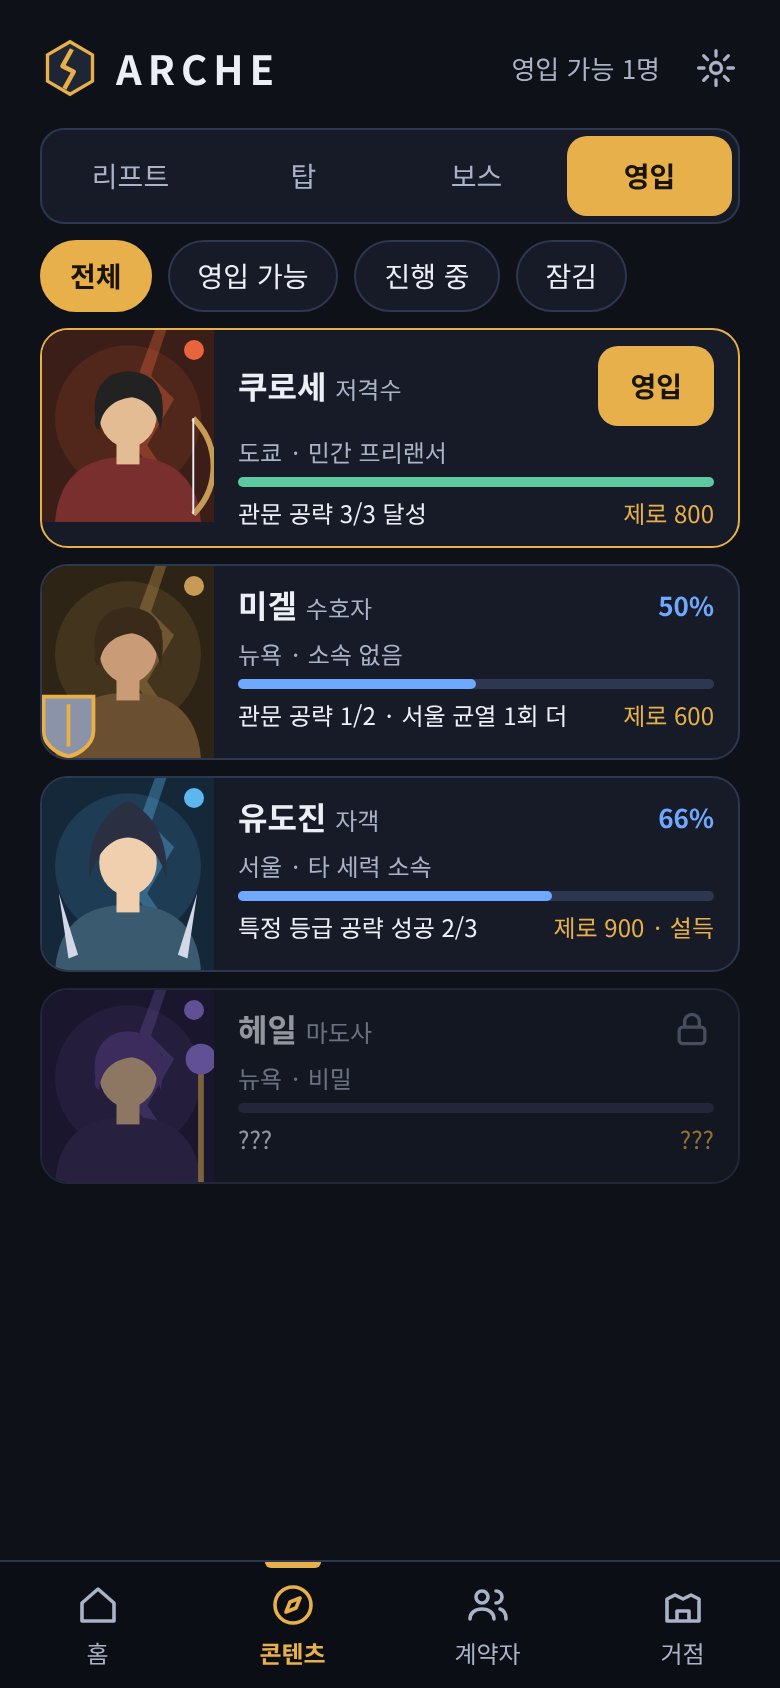
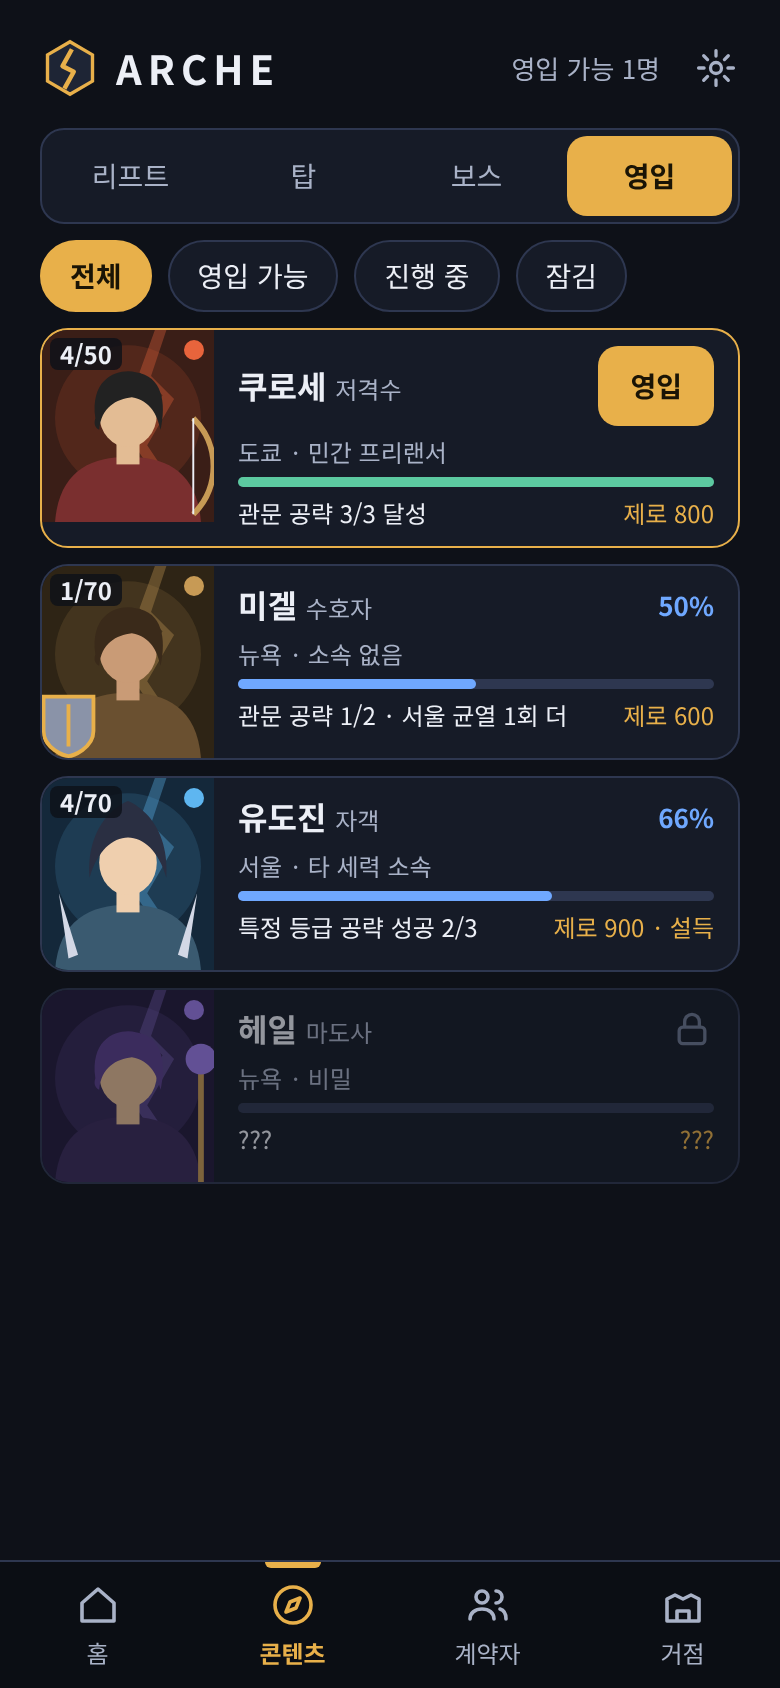
문서: 지시서 017c 영입 카드 레벨 표시, 영입 시안 갱신 (#56)
Claude-Session: https://claude.ai/code/session_01FY7xR1vSvN5qswAUnr8y5E

Changed region(s): [[0.0615, 0.1848, 0.1538, 0.2464], [0.0615, 0.4621, 0.1538, 0.4929], [0.0615, 0.3389, 0.1538, 0.3697]]

diff --git a/docs/design/ui/Recruit.html b/docs/design/ui/Recruit.html
@@ -10,9 +10,9 @@
 <div style="display:flex;gap:8px;overflow:hidden"><span style="flex:none;height:36px;box-sizing:border-box;border-radius:999px;padding:0 14px;display:flex;align-items:center;font-size:14px;background:#E8B04A;color:#1A1405;font-weight:700;border:1px solid #E8B04A">전체</span><span style="flex:none;height:36px;box-sizing:border-box;border-radius:999px;padding:0 14px;display:flex;align-items:center;font-size:14px;background:#161B27;color:#ECEFF6;border:1px solid #2E3750">영입 가능</span><span style="flex:none;height:36px;box-sizing:border-box;border-radius:999px;padding:0 14px;display:flex;align-items:center;font-size:14px;background:#161B27;color:#ECEFF6;border:1px solid #2E3750">진행 중</span><span style="flex:none;height:36px;box-sizing:border-box;border-radius:999px;padding:0 14px;display:flex;align-items:center;font-size:14px;background:#161B27;color:#ECEFF6;border:1px solid #2E3750">잠김</span></div>
 </div>
 <div style="padding:8px 20px 0;display:flex;flex-direction:column;gap:8px">
-<div style="box-sizing:border-box;background:#161B27;border:1px solid #E8B04A;border-radius:14px;overflow:hidden;display:flex;"><div style="width:86px;height:96px;position:relative;flex:none"><svg viewBox="0 0 100 100" width="100%" height="100%" preserveAspectRatio="xMidYMid slice" aria-hidden="true"><rect width="100" height="100" fill="#3A1E17"/><circle cx="50" cy="46" r="38" fill="#E8643C" opacity="0.14"/><polygon points="64,0 56,22 68,34 52,58 60,70 48,100 54,100 68,72 60,60 74,36 62,24 70,0" fill="#E8643C" opacity="0.35"/><path d="M12 100 C14 74 30 66 50 66 C70 66 86 74 88 100 Z" fill="#7A2F2F"/><rect x="44" y="56" width="12" height="14" fill="#E3BC94"/><ellipse cx="50" cy="44" rx="15" ry="17" fill="#E3BC94"/><path d="M33 46 C30 24 46 20 54 22 C68 24 70 38 67 52 C65 44 62 37 52 35 C44 36 36 40 35 52 C33 51 32 49 33 46 Z" fill="#222"/><path d="M84 46 C98 60 98 82 84 96" stroke="#C79A55" stroke-width="3" fill="none"/><path d="M84 46 L84 96" stroke="#ECEFF6" stroke-width="1"/></svg><span style="position:absolute;right:5px;top:5px;width:10px;height:10px;border-radius:50%;background:#E8643C"></span></div><div style="flex:1;padding:8px 12px;display:flex;flex-direction:column;gap:4px;min-width:0"><div style="display:flex;justify-content:space-between;align-items:center"><span style="font-size:16px;font-weight:700">쿠로세 <span style="font-size:12px;font-weight:400;color:#A9B2C7">저격수</span></span><span style="height:40px;padding:0 16px;box-sizing:border-box;border-radius:10px;background:#E8B04A;color:#1A1405;font-weight:700;font-size:14px;display:flex;align-items:center;justify-content:center">영입</span></div><span style="font-size:12px;color:#A9B2C7">도쿄 · 민간 프리랜서</span><div style="height:5px;border-radius:3px;background:#2E3750"><div style="width:100%;height:5px;border-radius:3px;background:#5CC9A0"></div></div><div style="display:flex;justify-content:space-between;font-size:12px"><span style="color:#ECEFF6">관문 공략 3/3 달성</span><span style="color:#E8B04A">제로 800</span></div></div></div>
-<div style="box-sizing:border-box;background:#161B27;border:1px solid #2E3750;border-radius:14px;overflow:hidden;display:flex;"><div style="width:86px;height:96px;position:relative;flex:none"><svg viewBox="0 0 100 100" width="100%" height="100%" preserveAspectRatio="xMidYMid slice" aria-hidden="true"><rect width="100" height="100" fill="#2E2415"/><circle cx="50" cy="46" r="38" fill="#C79A55" opacity="0.14"/><polygon points="64,0 56,22 68,34 52,58 60,70 48,100 54,100 68,72 60,60 74,36 62,24 70,0" fill="#C79A55" opacity="0.35"/><path d="M12 100 C14 74 30 66 50 66 C70 66 86 74 88 100 Z" fill="#6A5030"/><rect x="44" y="56" width="12" height="14" fill="#C99B76"/><ellipse cx="50" cy="44" rx="15" ry="17" fill="#C99B76"/><path d="M33 46 C30 24 46 20 54 22 C68 24 70 38 67 52 C65 44 62 37 52 35 C44 36 36 40 35 52 C33 51 32 49 33 46 Z" fill="#3A2A1A"/><path d="M6 68 L32 68 L32 86 C32 95 21 99 19 99 C17 99 6 95 6 86 Z" fill="#8A93A8" stroke="#E8B04A" stroke-width="2"/><path d="M19 72 L19 94" stroke="#E8B04A" stroke-width="2"/></svg><span style="position:absolute;right:5px;top:5px;width:10px;height:10px;border-radius:50%;background:#C79A55"></span></div><div style="flex:1;padding:8px 12px;display:flex;flex-direction:column;gap:4px;min-width:0"><div style="display:flex;justify-content:space-between;align-items:center"><span style="font-size:16px;font-weight:700">미겔 <span style="font-size:12px;font-weight:400;color:#A9B2C7">수호자</span></span><span style="font-size:13px;font-weight:700;color:#6FA8FF">50%</span></div><span style="font-size:12px;color:#A9B2C7">뉴욕 · 소속 없음</span><div style="height:5px;border-radius:3px;background:#2E3750"><div style="width:50%;height:5px;border-radius:3px;background:#6FA8FF"></div></div><div style="display:flex;justify-content:space-between;font-size:12px"><span style="color:#ECEFF6">관문 공략 1/2 · 서울 균열 1회 더</span><span style="color:#E8B04A">제로 600</span></div></div></div>
-<div style="box-sizing:border-box;background:#161B27;border:1px solid #2E3750;border-radius:14px;overflow:hidden;display:flex;"><div style="width:86px;height:96px;position:relative;flex:none"><svg viewBox="0 0 100 100" width="100%" height="100%" preserveAspectRatio="xMidYMid slice" aria-hidden="true"><rect width="100" height="100" fill="#14283A"/><circle cx="50" cy="46" r="38" fill="#5EB6F0" opacity="0.14"/><polygon points="64,0 56,22 68,34 52,58 60,70 48,100 54,100 68,72 60,60 74,36 62,24 70,0" fill="#5EB6F0" opacity="0.35"/><path d="M12 100 C14 74 30 66 50 66 C70 66 86 74 88 100 Z" fill="#3A5A70"/><rect x="44" y="56" width="12" height="14" fill="#EFCFAE"/><ellipse cx="50" cy="44" rx="15" ry="17" fill="#EFCFAE"/><path d="M30 52 C28 20 50 12 50 12 C50 12 72 20 70 52 C66 38 58 31 50 31 C42 31 34 38 30 52 Z" fill="#2A2F42"/><path d="M14 60 L24 92 L19 94 Z" fill="#D3D8E6"/><path d="M86 60 L76 92 L81 94 Z" fill="#D3D8E6"/></svg><span style="position:absolute;right:5px;top:5px;width:10px;height:10px;border-radius:50%;background:#5EB6F0"></span></div><div style="flex:1;padding:8px 12px;display:flex;flex-direction:column;gap:4px;min-width:0"><div style="display:flex;justify-content:space-between;align-items:center"><span style="font-size:16px;font-weight:700">유도진 <span style="font-size:12px;font-weight:400;color:#A9B2C7">자객</span></span><span style="font-size:13px;font-weight:700;color:#6FA8FF">66%</span></div><span style="font-size:12px;color:#A9B2C7">서울 · 타 세력 소속</span><div style="height:5px;border-radius:3px;background:#2E3750"><div style="width:66%;height:5px;border-radius:3px;background:#6FA8FF"></div></div><div style="display:flex;justify-content:space-between;font-size:12px"><span style="color:#ECEFF6">특정 등급 공략 성공 2/3</span><span style="color:#E8B04A">제로 900 · 설득</span></div></div></div>
+<div style="box-sizing:border-box;background:#161B27;border:1px solid #E8B04A;border-radius:14px;overflow:hidden;display:flex;"><div style="width:86px;height:96px;position:relative;flex:none"><svg viewBox="0 0 100 100" width="100%" height="100%" preserveAspectRatio="xMidYMid slice" aria-hidden="true"><rect width="100" height="100" fill="#3A1E17"/><circle cx="50" cy="46" r="38" fill="#E8643C" opacity="0.14"/><polygon points="64,0 56,22 68,34 52,58 60,70 48,100 54,100 68,72 60,60 74,36 62,24 70,0" fill="#E8643C" opacity="0.35"/><path d="M12 100 C14 74 30 66 50 66 C70 66 86 74 88 100 Z" fill="#7A2F2F"/><rect x="44" y="56" width="12" height="14" fill="#E3BC94"/><ellipse cx="50" cy="44" rx="15" ry="17" fill="#E3BC94"/><path d="M33 46 C30 24 46 20 54 22 C68 24 70 38 67 52 C65 44 62 37 52 35 C44 36 36 40 35 52 C33 51 32 49 33 46 Z" fill="#222"/><path d="M84 46 C98 60 98 82 84 96" stroke="#C79A55" stroke-width="3" fill="none"/><path d="M84 46 L84 96" stroke="#ECEFF6" stroke-width="1"/></svg><span data-ui="recruit.level" style="position:absolute;left:4px;top:4px;font-size:12px;font-weight:700;line-height:16px;background:rgba(14,17,24,0.82);border-radius:4px;padding:0 5px;z-index:2">4/50</span><span style="position:absolute;right:5px;top:5px;width:10px;height:10px;border-radius:50%;background:#E8643C"></span></div><div style="flex:1;padding:8px 12px;display:flex;flex-direction:column;gap:4px;min-width:0"><div style="display:flex;justify-content:space-between;align-items:center"><span style="font-size:16px;font-weight:700">쿠로세 <span style="font-size:12px;font-weight:400;color:#A9B2C7">저격수</span></span><span style="height:40px;padding:0 16px;box-sizing:border-box;border-radius:10px;background:#E8B04A;color:#1A1405;font-weight:700;font-size:14px;display:flex;align-items:center;justify-content:center">영입</span></div><span style="font-size:12px;color:#A9B2C7">도쿄 · 민간 프리랜서</span><div style="height:5px;border-radius:3px;background:#2E3750"><div style="width:100%;height:5px;border-radius:3px;background:#5CC9A0"></div></div><div style="display:flex;justify-content:space-between;font-size:12px"><span style="color:#ECEFF6">관문 공략 3/3 달성</span><span style="color:#E8B04A">제로 800</span></div></div></div>
+<div style="box-sizing:border-box;background:#161B27;border:1px solid #2E3750;border-radius:14px;overflow:hidden;display:flex;"><div style="width:86px;height:96px;position:relative;flex:none"><svg viewBox="0 0 100 100" width="100%" height="100%" preserveAspectRatio="xMidYMid slice" aria-hidden="true"><rect width="100" height="100" fill="#2E2415"/><circle cx="50" cy="46" r="38" fill="#C79A55" opacity="0.14"/><polygon points="64,0 56,22 68,34 52,58 60,70 48,100 54,100 68,72 60,60 74,36 62,24 70,0" fill="#C79A55" opacity="0.35"/><path d="M12 100 C14 74 30 66 50 66 C70 66 86 74 88 100 Z" fill="#6A5030"/><rect x="44" y="56" width="12" height="14" fill="#C99B76"/><ellipse cx="50" cy="44" rx="15" ry="17" fill="#C99B76"/><path d="M33 46 C30 24 46 20 54 22 C68 24 70 38 67 52 C65 44 62 37 52 35 C44 36 36 40 35 52 C33 51 32 49 33 46 Z" fill="#3A2A1A"/><path d="M6 68 L32 68 L32 86 C32 95 21 99 19 99 C17 99 6 95 6 86 Z" fill="#8A93A8" stroke="#E8B04A" stroke-width="2"/><path d="M19 72 L19 94" stroke="#E8B04A" stroke-width="2"/></svg><span data-ui="recruit.level" style="position:absolute;left:4px;top:4px;font-size:12px;font-weight:700;line-height:16px;background:rgba(14,17,24,0.82);border-radius:4px;padding:0 5px;z-index:2">1/70</span><span style="position:absolute;right:5px;top:5px;width:10px;height:10px;border-radius:50%;background:#C79A55"></span></div><div style="flex:1;padding:8px 12px;display:flex;flex-direction:column;gap:4px;min-width:0"><div style="display:flex;justify-content:space-between;align-items:center"><span style="font-size:16px;font-weight:700">미겔 <span style="font-size:12px;font-weight:400;color:#A9B2C7">수호자</span></span><span style="font-size:13px;font-weight:700;color:#6FA8FF">50%</span></div><span style="font-size:12px;color:#A9B2C7">뉴욕 · 소속 없음</span><div style="height:5px;border-radius:3px;background:#2E3750"><div style="width:50%;height:5px;border-radius:3px;background:#6FA8FF"></div></div><div style="display:flex;justify-content:space-between;font-size:12px"><span style="color:#ECEFF6">관문 공략 1/2 · 서울 균열 1회 더</span><span style="color:#E8B04A">제로 600</span></div></div></div>
+<div style="box-sizing:border-box;background:#161B27;border:1px solid #2E3750;border-radius:14px;overflow:hidden;display:flex;"><div style="width:86px;height:96px;position:relative;flex:none"><svg viewBox="0 0 100 100" width="100%" height="100%" preserveAspectRatio="xMidYMid slice" aria-hidden="true"><rect width="100" height="100" fill="#14283A"/><circle cx="50" cy="46" r="38" fill="#5EB6F0" opacity="0.14"/><polygon points="64,0 56,22 68,34 52,58 60,70 48,100 54,100 68,72 60,60 74,36 62,24 70,0" fill="#5EB6F0" opacity="0.35"/><path d="M12 100 C14 74 30 66 50 66 C70 66 86 74 88 100 Z" fill="#3A5A70"/><rect x="44" y="56" width="12" height="14" fill="#EFCFAE"/><ellipse cx="50" cy="44" rx="15" ry="17" fill="#EFCFAE"/><path d="M30 52 C28 20 50 12 50 12 C50 12 72 20 70 52 C66 38 58 31 50 31 C42 31 34 38 30 52 Z" fill="#2A2F42"/><path d="M14 60 L24 92 L19 94 Z" fill="#D3D8E6"/><path d="M86 60 L76 92 L81 94 Z" fill="#D3D8E6"/></svg><span data-ui="recruit.level" style="position:absolute;left:4px;top:4px;font-size:12px;font-weight:700;line-height:16px;background:rgba(14,17,24,0.82);border-radius:4px;padding:0 5px;z-index:2">4/70</span><span style="position:absolute;right:5px;top:5px;width:10px;height:10px;border-radius:50%;background:#5EB6F0"></span></div><div style="flex:1;padding:8px 12px;display:flex;flex-direction:column;gap:4px;min-width:0"><div style="display:flex;justify-content:space-between;align-items:center"><span style="font-size:16px;font-weight:700">유도진 <span style="font-size:12px;font-weight:400;color:#A9B2C7">자객</span></span><span style="font-size:13px;font-weight:700;color:#6FA8FF">66%</span></div><span style="font-size:12px;color:#A9B2C7">서울 · 타 세력 소속</span><div style="height:5px;border-radius:3px;background:#2E3750"><div style="width:66%;height:5px;border-radius:3px;background:#6FA8FF"></div></div><div style="display:flex;justify-content:space-between;font-size:12px"><span style="color:#ECEFF6">특정 등급 공략 성공 2/3</span><span style="color:#E8B04A">제로 900 · 설득</span></div></div></div>
 <div style="box-sizing:border-box;background:#161B27;border:1px solid #2E3750;border-radius:14px;overflow:hidden;display:flex;opacity:0.6;"><div style="width:86px;height:96px;position:relative;flex:none"><svg viewBox="0 0 100 100" width="100%" height="100%" preserveAspectRatio="xMidYMid slice" aria-hidden="true"><rect width="100" height="100" fill="#231A3C"/><circle cx="50" cy="46" r="38" fill="#9B7BE8" opacity="0.14"/><polygon points="64,0 56,22 68,34 52,58 60,70 48,100 54,100 68,72 60,60 74,36 62,24 70,0" fill="#9B7BE8" opacity="0.35"/><path d="M12 100 C14 74 30 66 50 66 C70 66 86 74 88 100 Z" fill="#3A2A5A"/><rect x="44" y="56" width="12" height="14" fill="#E3BC94"/><ellipse cx="50" cy="44" rx="15" ry="17" fill="#E3BC94"/><path d="M33 46 C30 24 46 20 54 22 C68 24 70 38 67 52 C65 44 62 37 52 35 C44 36 36 40 35 52 C33 51 32 49 33 46 Z" fill="#5A3E8C"/><path d="M88 42 L88 100" stroke="#C79A55" stroke-width="3"/><circle cx="88" cy="36" r="8" fill="#9B7BE8"/></svg><span style="position:absolute;right:5px;top:5px;width:10px;height:10px;border-radius:50%;background:#9B7BE8"></span></div><div style="flex:1;padding:8px 12px;display:flex;flex-direction:column;gap:4px;min-width:0"><div style="display:flex;justify-content:space-between;align-items:center"><span style="font-size:16px;font-weight:700">헤일 <span style="font-size:12px;font-weight:400;color:#A9B2C7">마도사</span></span><svg width="22" height="22" viewBox="0 0 24 24" fill="none" stroke="#6C7790" stroke-width="1.8" aria-hidden="true"><rect x="5" y="11" width="14" height="9" rx="2"/><path d="M8 11V8a4 4 0 018 0v3"/></svg></div><span style="font-size:12px;color:#A9B2C7">뉴욕 · 비밀</span><div style="height:5px;border-radius:3px;background:#2E3750"><div style="width:0%;height:5px;border-radius:3px;background:#6FA8FF"></div></div><div style="display:flex;justify-content:space-between;font-size:12px"><span style="color:#ECEFF6">???</span><span style="color:#E8B04A">???</span></div></div></div>
 </div>
 <div style="flex:1"></div>

diff --git a/docs/tasks/017c-recruit-level.md b/docs/tasks/017c-recruit-level.md
@@ -1,0 +1,17 @@
+# 지시서 017c: 영입 카드에 레벨/최대 레벨 표시 (소규모 패치)
+
+사용자 요청(2026-11-24): 영입 화면에서 계약자의 레벨과 최대 레벨(성장 한계)이 안 보여 불편하다. 설계서 [확정]에도 "성장 한계와 최초 레벨은 영입 전부터 프로필에 모두 보여준다"가 있다.
+
+## 1. 구현
+- 영입 탭(`src/ui/screens/Content.tsx`의 `RecruitList`) 카드의 초상 왼쪽 위에 `레벨/성장 한계` 배지를 둔다(예: `4/50`). 계약자 목록 카드(`MercList`)의 배지와 같은 컴포넌트·모양을 쓴다(새로 만들지 않는다). 값은 `initialLevel`(길드에 없는 계약자는 최초 레벨)과 `growth.cap`이다. 영입 가능·진행 중 카드에 보이고, 잠김 카드는 이름이 `???`이라 배지도 숨긴다.
+- 시안(정본): `docs/design/ui/Recruit.html`, `contract.json`의 `Recruit.cards`. 시안과 다르게 만들지 않는다. `data-ui="recruit.level"`을 붙인다.
+- `ui:shots`를 다시 찍어 Recruit compare 이미지를 PR에 붙이고, `ui:check`에 "영입 가능·진행 중 카드마다 배지가 있고 형식이 `숫자/숫자`다, 잠김 카드에는 없다" 검사를 추가한다.
+
+## 2. 하지 않는 것
+다른 화면 변경, 정렬·필터 추가, 영입 조건·비용 변경.
+
+## 3. 완료 조건: 머지와 배포까지 (AGENTS.md 확정 규칙, 이 지시서의 일부)
+1. 테스트·타입 검사·빌드·`ui:check`가 통과한 PR을 연다.
+2. 사용자 확인을 기다리지 않고 바로 `main`에 머지한다.
+3. Render 배포가 `live`가 된 것을 확인한다. 실패하면 고쳐 다시 머지한다.
+4. 최종 보고는 "배포 완료", 배포 커밋, Recruit compare 이미지로 한다. 020보다 먼저 끝낸다.
